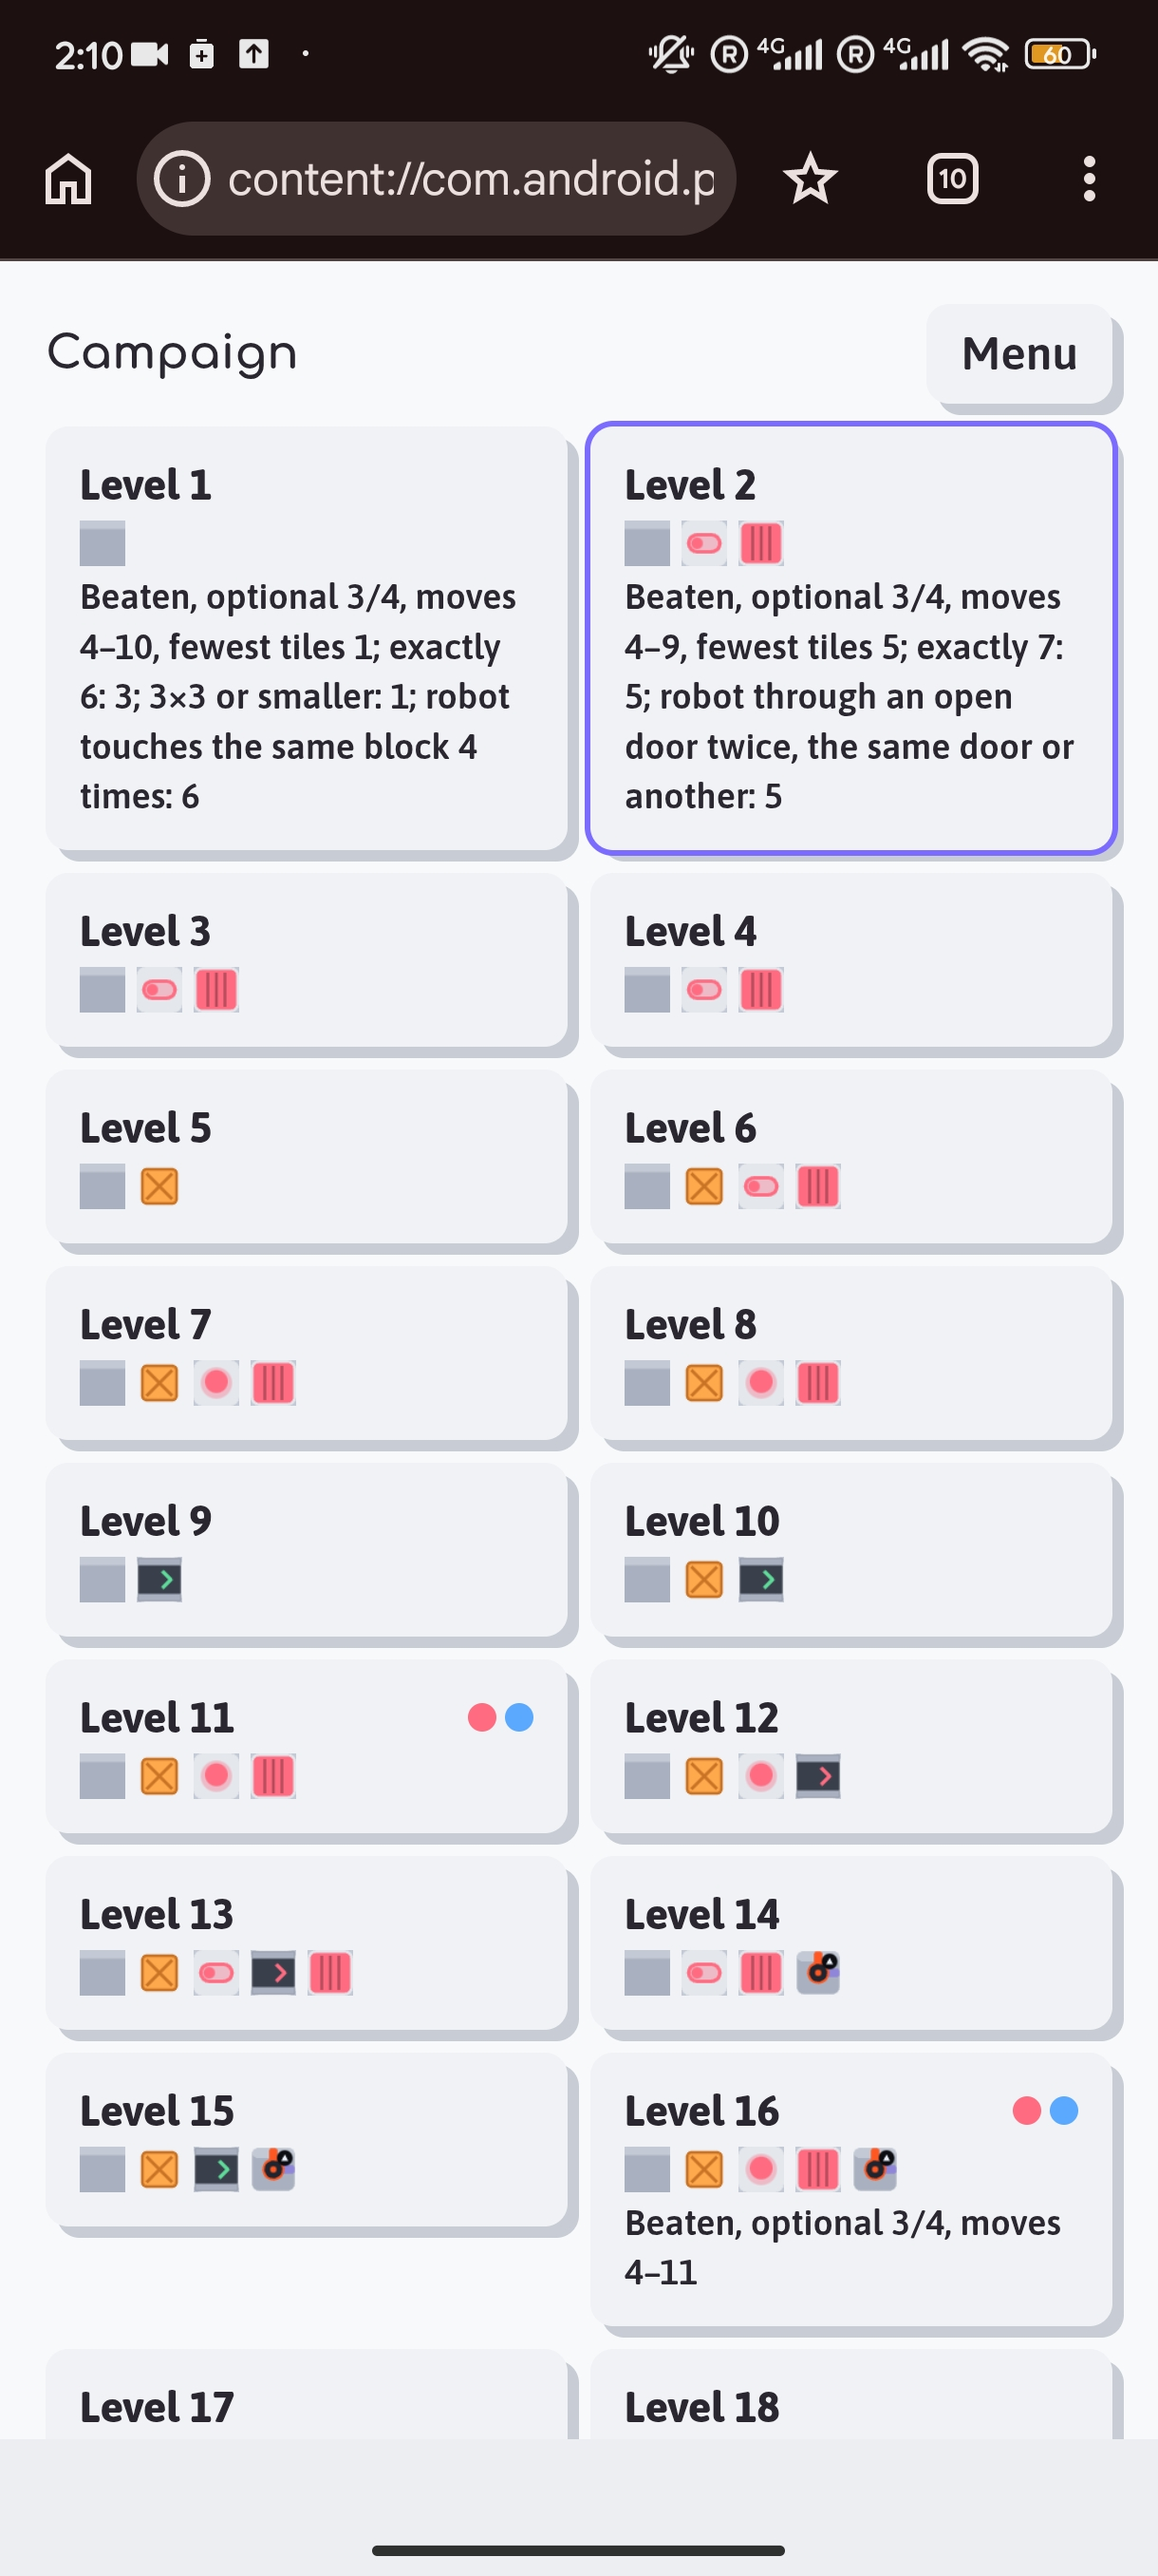
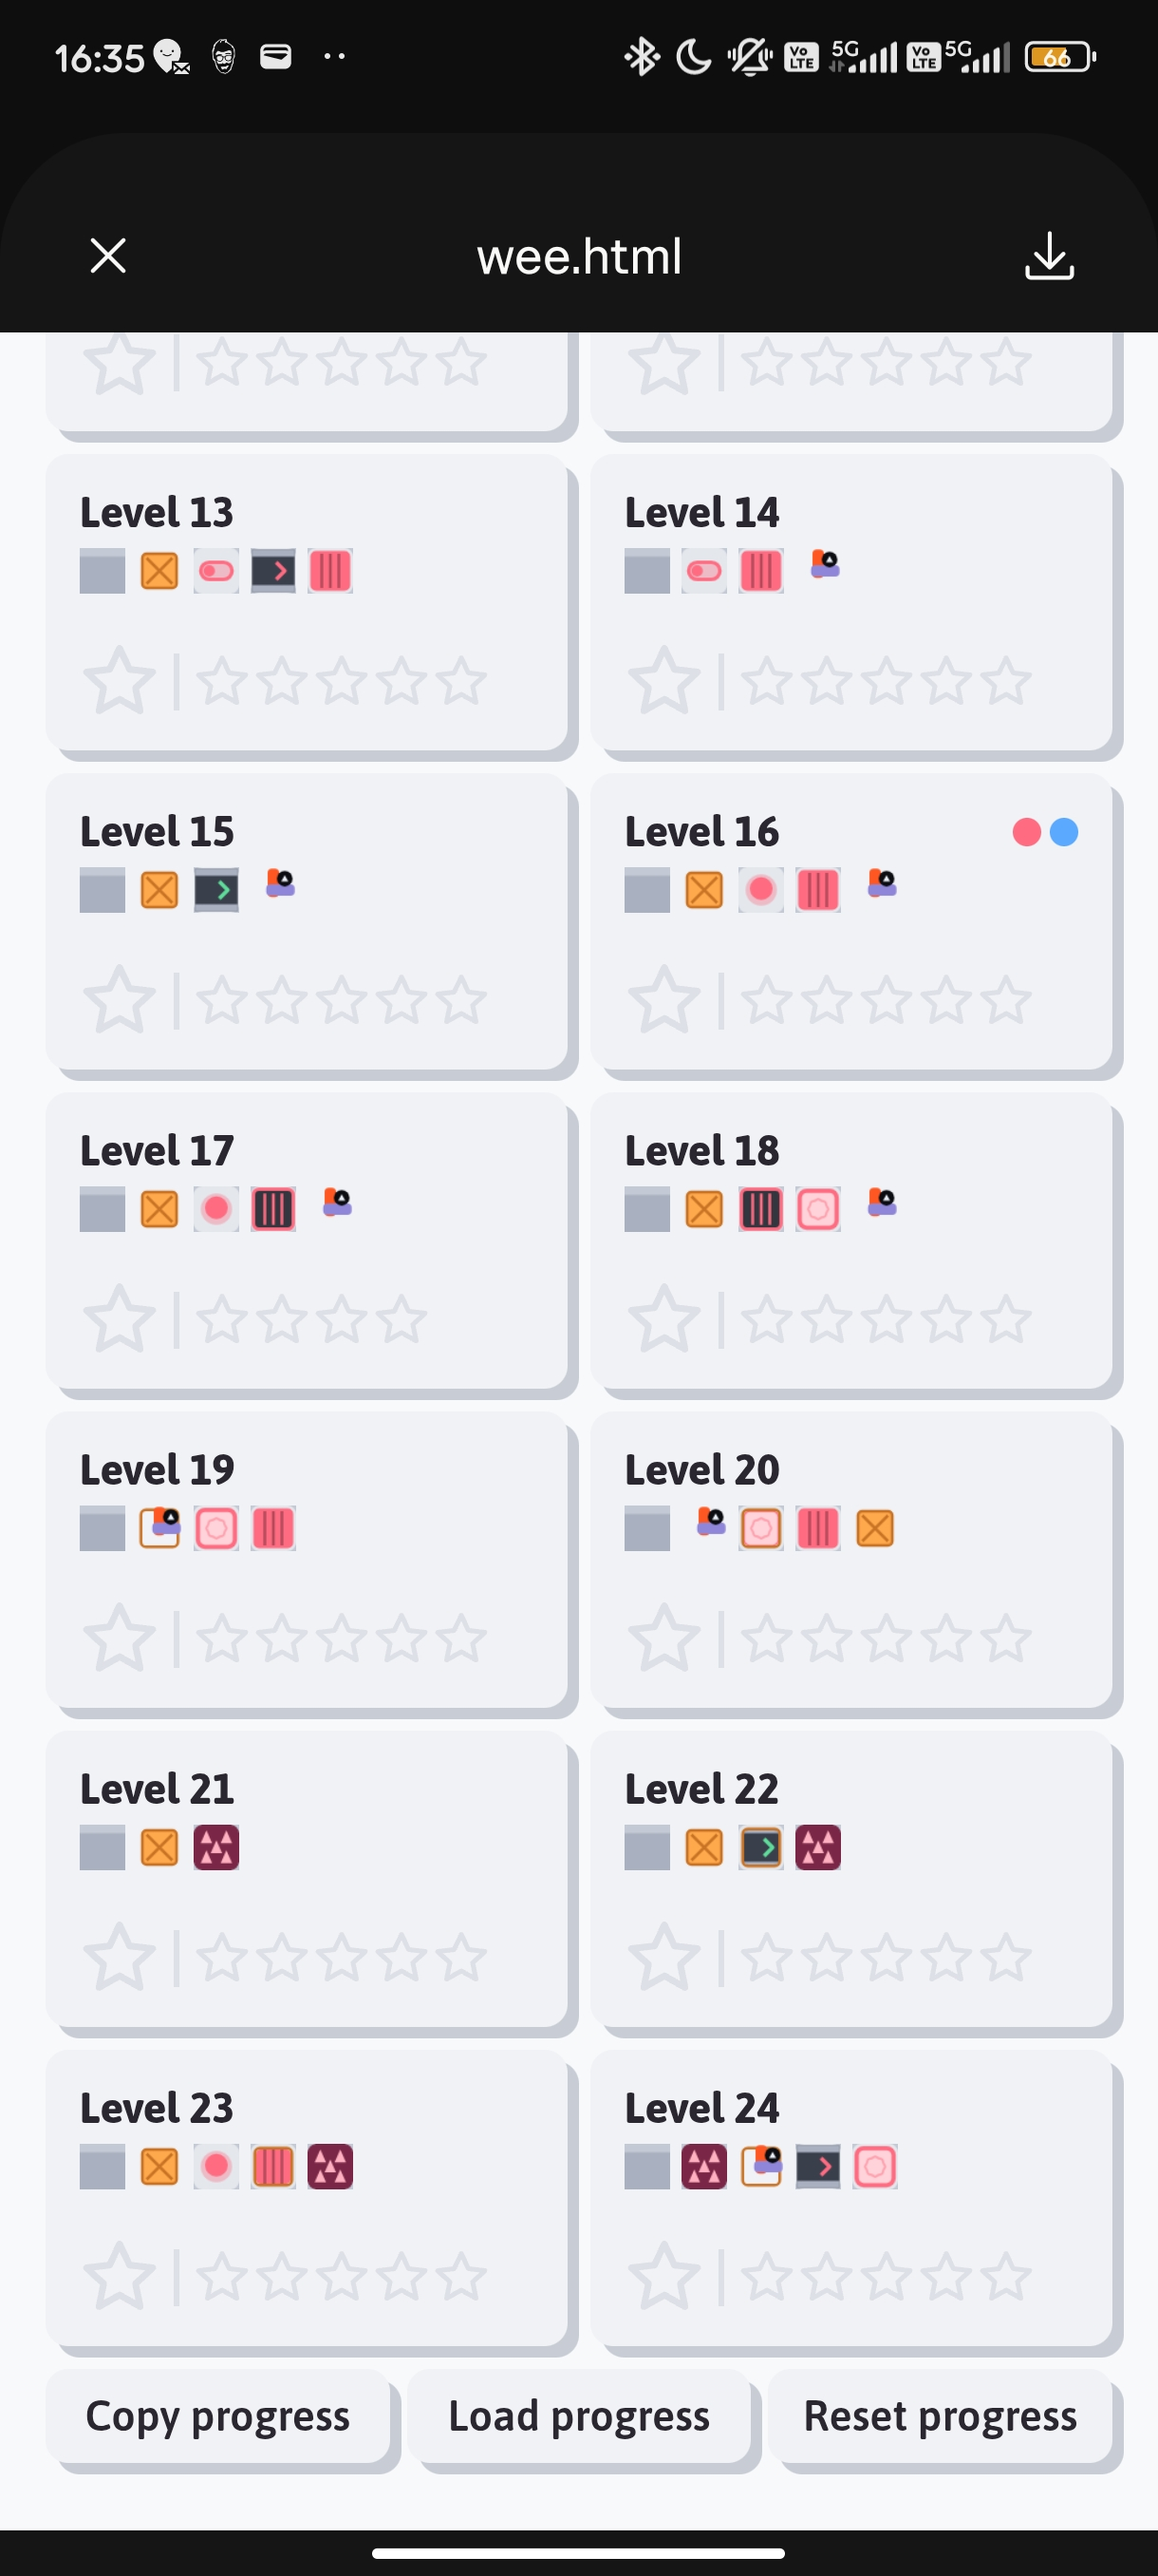
Register 525-527: level list
Claude-Session: https://claude.ai/code/session_01S5VoDDtzPCPy9uyvxAQGvD

diff --git a/docs/REGISTER.md b/docs/REGISTER.md
@@ -530,3 +530,6 @@ outcome: **done** (commit), **declined** (why), or **moved** (where).
 | 522 | "Even because I got no star by beating the level 0." | **done (2026-10-30), by 521.** The tutorial no longer gives or shows a star: its end now points at Level 1's stars instead. |
 | 523 | (screenshot `docs/grid-small-report.jpg`) "How do we increase the area for play (the grid)? It's too small" | **done (2026-10-30).** The run's message now floats over the top of the goals card instead of keeping its own 48px band, the move row is gone, and the top row is 6px shorter. A 12x12 Level 3 on a 393x735 screen: 203px to 293px. The side margin grew so the side + grips stay 30px off the screen's edges (register 239). |
 | 524 | "Avoid dynamic things opening and closing. Not good practice for games." | **rule (2026-10-30), written into CLAUDE.md.** Nothing on the game screen folds open or shut to save space. |
+| 525 | (screenshot `docs/level-list-report.jpg`) "Hide the levels with buttons/actuators in 2+ colors (level 16). [...] I don't plan adding levels with 2+ colors for a while." | **building (2026-10-30).** |
+| 526 | "Laser blocks are weird, white." | **building (2026-10-30).** |
+| 527 | "Have blocks inline (aligned to the right) to the level number (just write 12 instead of Level 12). That will save up some space." | **building (2026-10-30).** |
